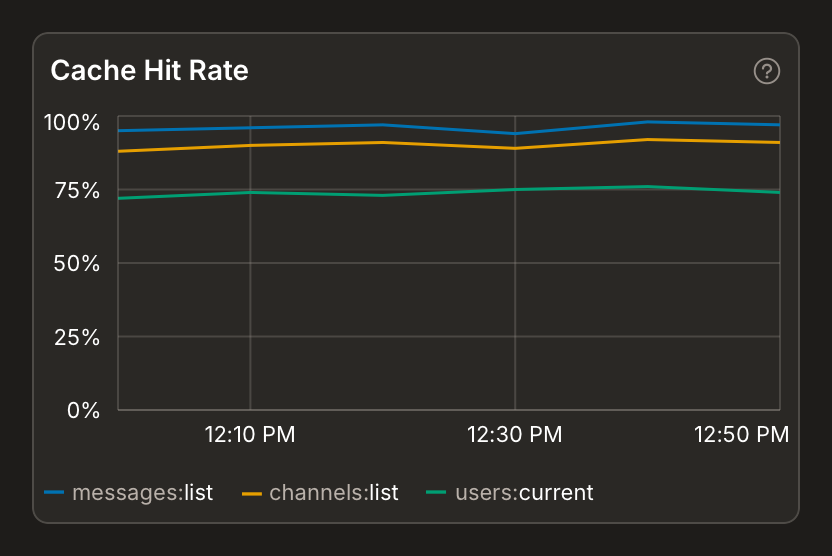
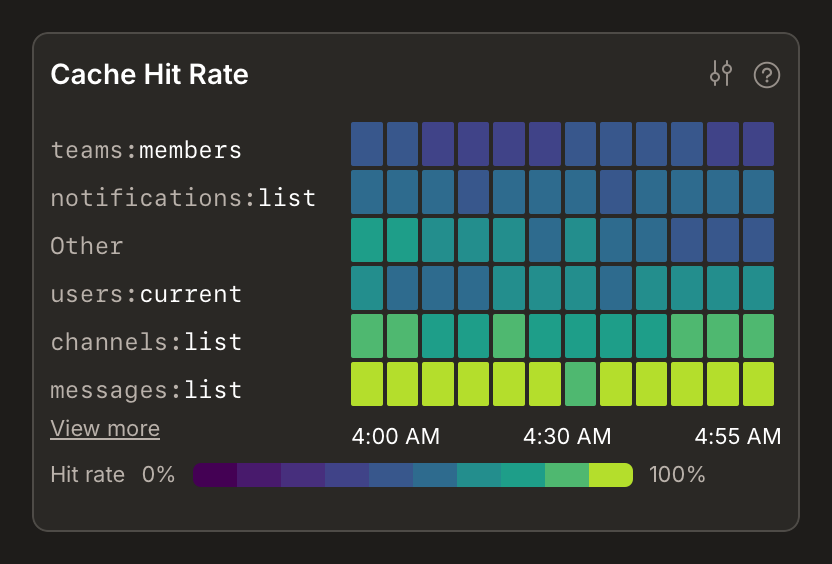
Update cache hit rate screenshot in docs (#51553)
GitOrigin-RevId: c80c1d32600719a4f3760b104f90e7086f35c832

diff --git a/npm-packages/dashboard/src/docs/components/HealthCacheHitRate.stories.tsx b/npm-packages/dashboard/src/docs/components/HealthCacheHitRate.stories.tsx
@@ -19,25 +19,51 @@ const mockClient = mockConvexReactClient().registerQueryFake(
   () => ({ page: [], isDone: true, continueCursor: "" }),
 );
 
-const list = functionIdentifierValue("messages:list");
-const channels = functionIdentifierValue("channels:list");
-const users = functionIdentifierValue("users:current");
+const functions = [
+  {
+    key: functionIdentifierValue("messages:list"),
+    values: [95, 96, 97, 94, 98, 97],
+  },
+  {
+    key: functionIdentifierValue("channels:list"),
+    values: [88, 90, 91, 89, 92, 91],
+  },
+  {
+    key: functionIdentifierValue("users:current"),
+    values: [72, 74, 73, 75, 76, 74],
+  },
+  {
+    key: functionIdentifierValue("notifications:list"),
+    values: [68, 70, 69, 71, 72, 70],
+  },
+  {
+    key: functionIdentifierValue("teams:members"),
+    values: [60, 62, 64, 61, 65, 63],
+  },
+  {
+    key: "_rest",
+    values: [82, 80, 78, 76, 79, 81],
+  },
+] as const;
 
 const chartData: ChartData = {
   xAxisKey: "time",
   data: [
-    { time: "12:00 PM", [list]: 95, [channels]: 88, [users]: 72 },
-    { time: "12:10 PM", [list]: 96, [channels]: 90, [users]: 74 },
-    { time: "12:20 PM", [list]: 97, [channels]: 91, [users]: 73 },
-    { time: "12:30 PM", [list]: 94, [channels]: 89, [users]: 75 },
-    { time: "12:40 PM", [list]: 98, [channels]: 92, [users]: 76 },
-    { time: "12:50 PM", [list]: 97, [channels]: 91, [users]: 74 },
-  ],
-  lineKeys: [
-    { key: list, name: list, color: "var(--chart-line-1)" },
-    { key: channels, name: channels, color: "var(--chart-line-2)" },
-    { key: users, name: users, color: "var(--chart-line-3)" },
-  ],
+    "12:00 PM",
+    "12:10 PM",
+    "12:20 PM",
+    "12:30 PM",
+    "12:40 PM",
+    "12:50 PM",
+  ].map((time, i) => ({
+    time,
+    ...Object.fromEntries(functions.map(({ key, values }) => [key, values[i]])),
+  })),
+  lineKeys: functions.map(({ key }, i) => ({
+    key,
+    name: key,
+    color: `var(--chart-line-${i + 1})`,
+  })),
 };
 
 const bucketStartTimes = Array.from(
@@ -45,27 +71,43 @@ const bucketStartTimes = Array.from(
   (_, i) => new Date(Date.UTC(2026, 0, 1, 12, i * 5)),
 );
 
+function heatmapRow(
+  key: string,
+  values: number[],
+): FunctionRateHeatmapData["rows"][number] {
+  return {
+    key,
+    cells: values.map((value, i) => ({ time: bucketStartTimes[i], value })),
+  };
+}
+
 const heatmapData: FunctionRateHeatmapData = {
   bucketStartTimes,
   rows: [
-    {
-      key: list,
-      cells: [98, 96, 95, 97, 92, 90, 88, 95, 96, 97, 95, 94].map(
-        (value, i) => ({ time: bucketStartTimes[i], value }),
-      ),
-    },
-    {
-      key: channels,
-      cells: [85, 82, 78, 75, 80, 78, 75, 72, 78, 80, 82, 85].map(
-        (value, i) => ({ time: bucketStartTimes[i], value }),
-      ),
-    },
-    {
-      key: users,
-      cells: [60, 58, 55, 52, 60, 65, 62, 58, 60, 62, 65, 68].map(
-        (value, i) => ({ time: bucketStartTimes[i], value }),
-      ),
-    },
+    heatmapRow(
+      functions[0].key,
+      [98, 96, 95, 97, 92, 90, 88, 95, 96, 97, 95, 94],
+    ),
+    heatmapRow(
+      functions[1].key,
+      [85, 82, 78, 75, 80, 78, 75, 72, 78, 80, 82, 85],
+    ),
+    heatmapRow(
+      functions[2].key,
+      [60, 58, 55, 52, 60, 65, 62, 58, 60, 62, 65, 68],
+    ),
+    heatmapRow(
+      functions[3].key,
+      [55, 52, 50, 48, 52, 54, 51, 49, 50, 53, 55, 57],
+    ),
+    heatmapRow(
+      functions[4].key,
+      [42, 40, 38, 35, 36, 39, 41, 44, 42, 40, 38, 37],
+    ),
+    heatmapRow(
+      functions[5].key,
+      [70, 72, 68, 65, 60, 58, 62, 55, 50, 48, 45, 42],
+    ),
   ],
 };
 